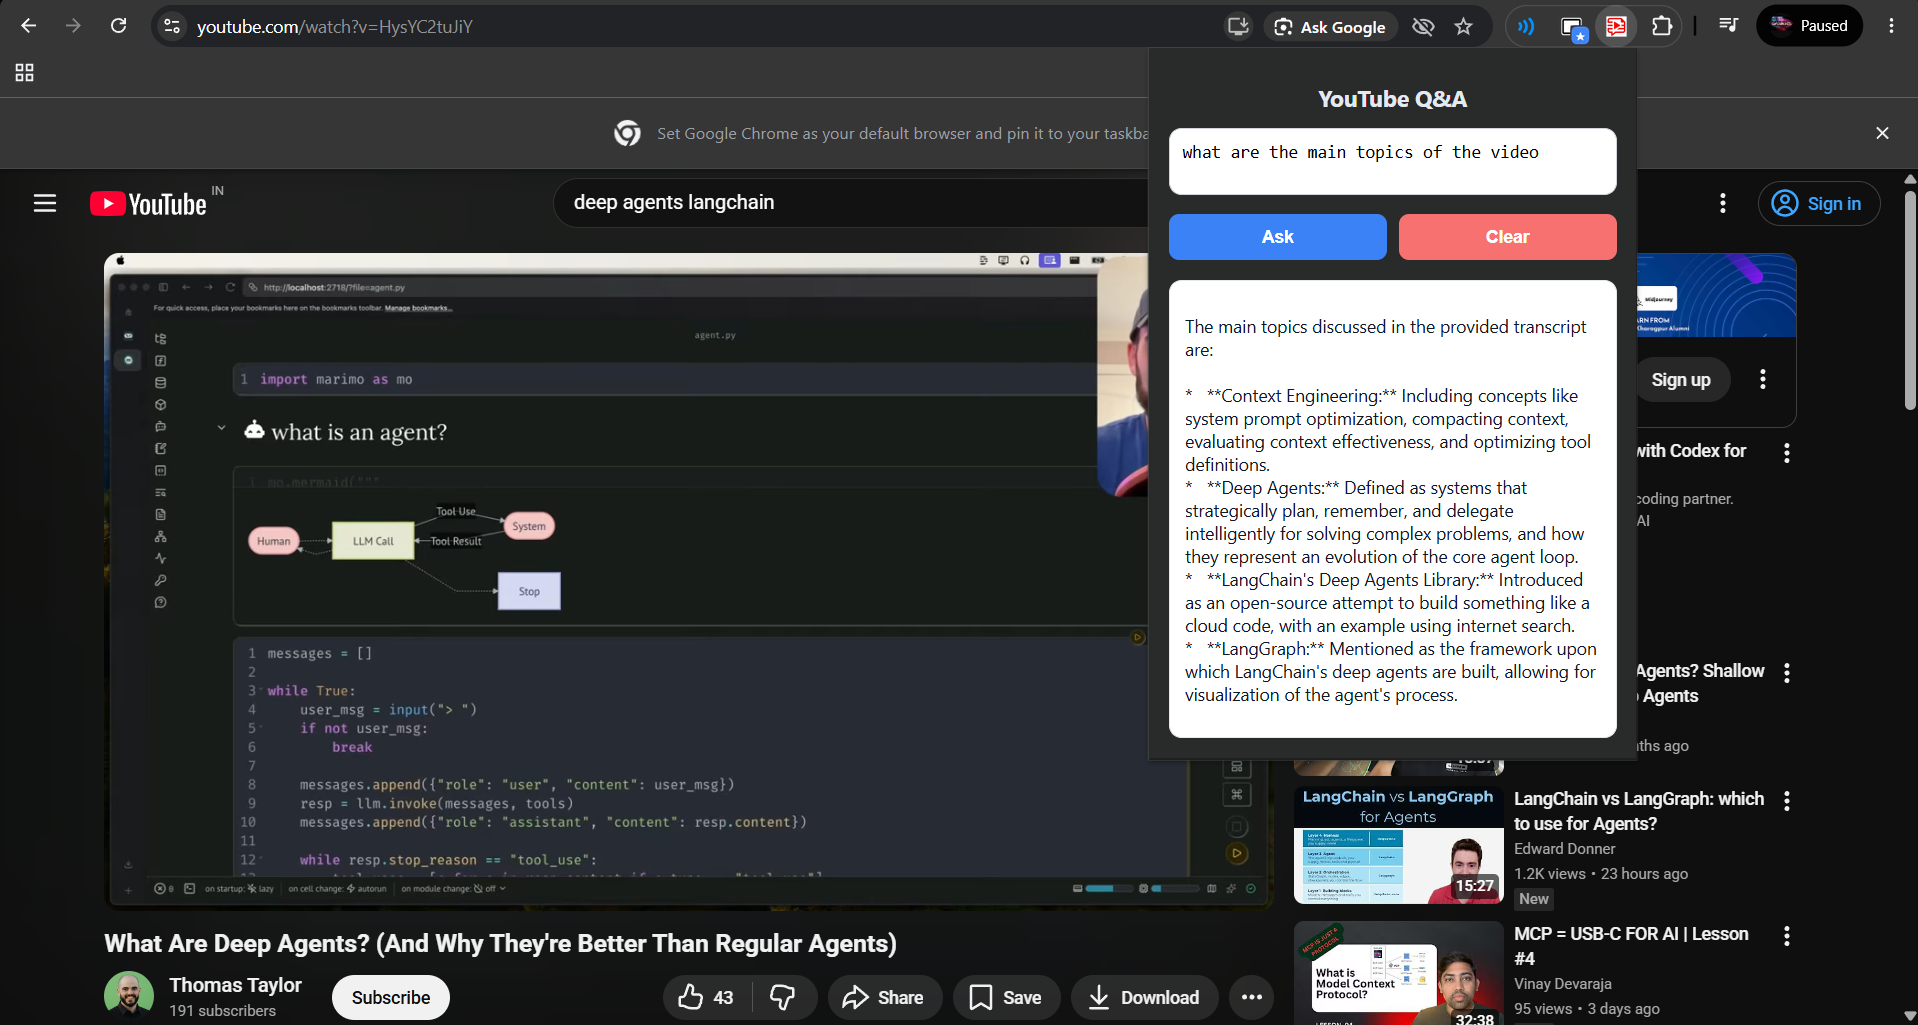
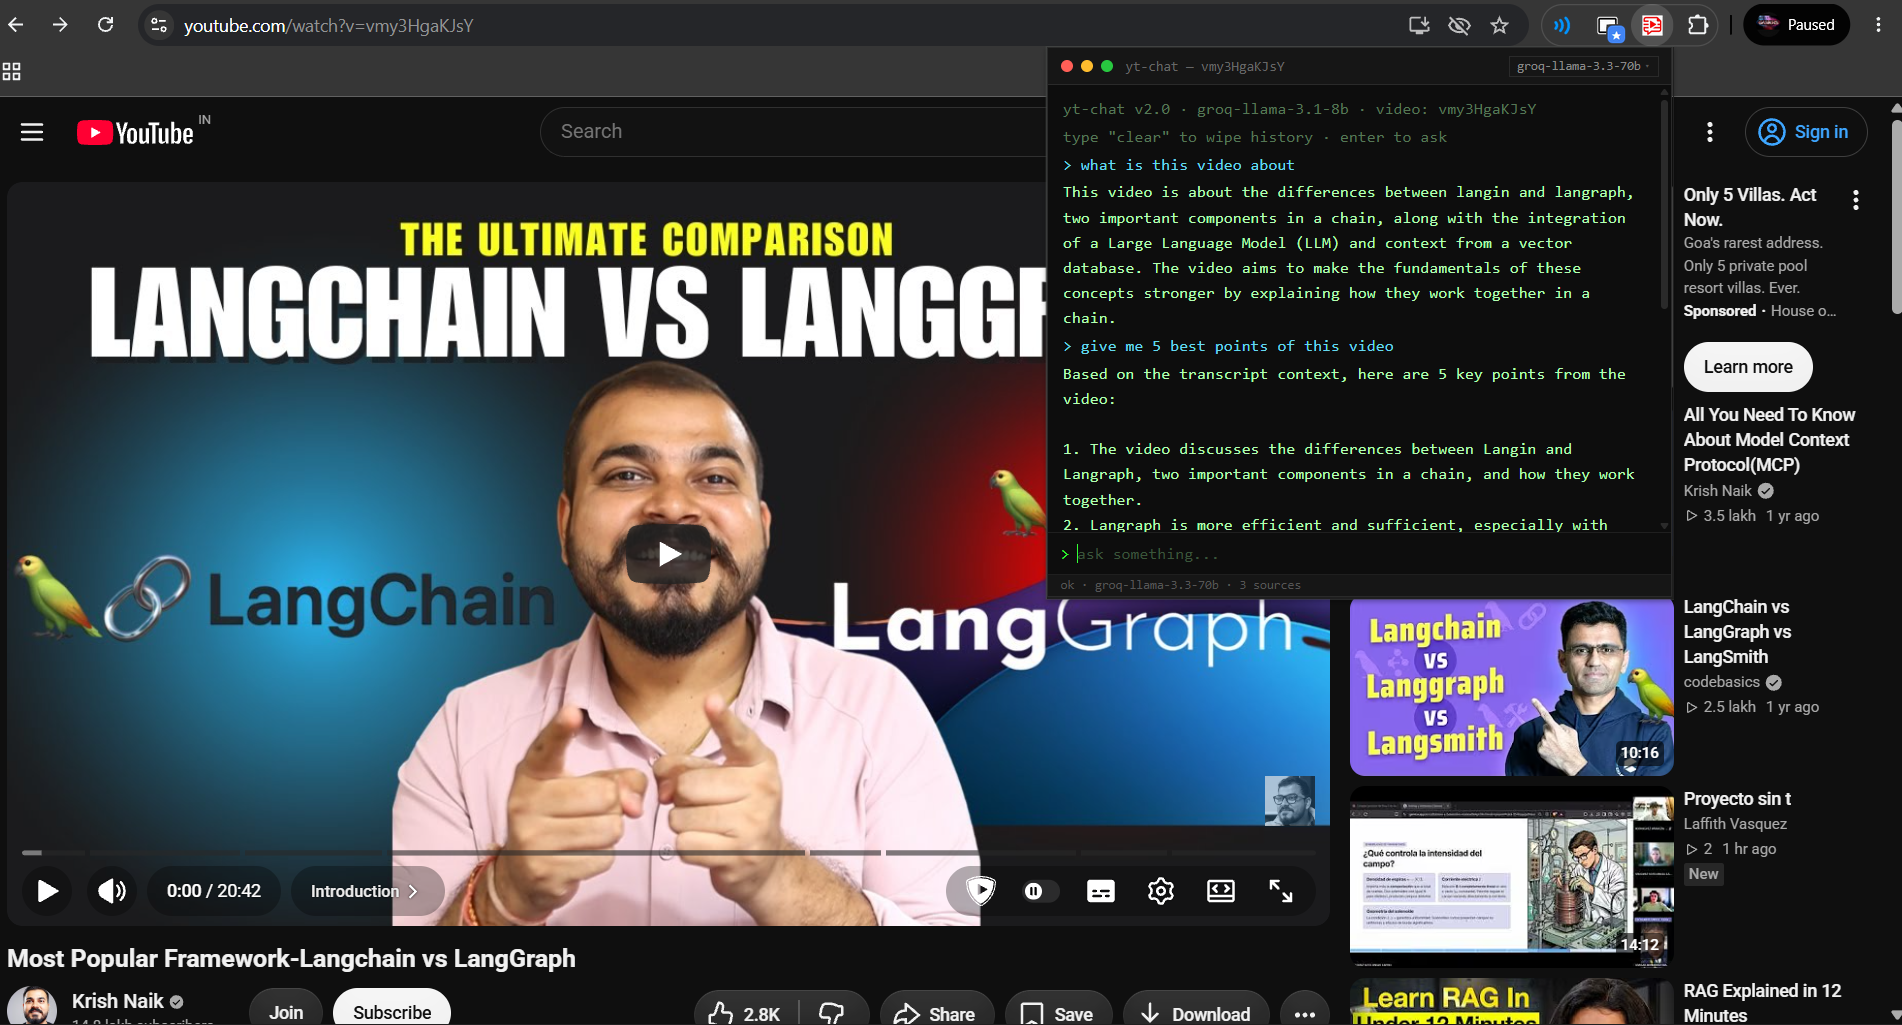
Add README.md for project overview, features, tech stack, and getting started instructions

diff --git a/README.md b/README.md
@@ -1,0 +1,55 @@
+# Arya Ojha — Portfolio
+
+Personal portfolio website for **Arya Ojha**, an AI Engineer based in India. Features an interactive p5.js falling sand simulation as the background with a sleek dark glassmorphism design.
+
+## 🚀 Features
+
+- **Interactive Sand Simulation** — p5.js-powered falling sand particles that respond to mouse movement with cycling hues
+- **Glassmorphism UI** — frosted glass effects with backdrop blur throughout the page
+- **GSAP Animations** — smooth entrance animations on hero text and elements
+- **Click Splatter Effect** — particles burst from click points
+- **Project Showcase** — hover-to-reveal project previews (Pragyasetu, YT_Chat, Bithub)
+- **Slide-in Menu** — minimal sidebar navigation with smooth scroll-to-section
+- **Fully Responsive** — adapts from desktop to mobile with tailored breakpoints
+
+## 🛠 Tech Stack
+
+| Layer | Technology |
+|-------|------------|
+| Canvas / Background | [p5.js](https://p5js.org/) 1.9 |
+| Animations | [GSAP](https://greensock.com/gsap/) 3.12 + ScrollTrigger |
+| Icons | [Remix Icon](https://remixicon.com/) 3.2 |
+| Fonts | Poppins (Google Fonts) |
+| Styling | Vanilla CSS (custom properties, glassmorphism, responsive) |
+
+## 📁 Project Structure
+
+```
+├── index.html          # Main HTML structure
+├── style.css           # All styles (glass effects, responsive, animations)
+├── script.js           # p5.js sand sim, GSAP animations, menu, splatter
+├── assets/             # Project images and SVG icons
+├── dp.jpg              # Profile photo
+└── README.md
+```
+
+## 🖥 Getting Started
+
+Just open `index.html` in any modern browser — no build step required.
+
+```
+# Or serve locally
+npx serve .
+```
+
+## ✨ Sand Simulation
+
+The background sand is a custom optimized simulation:
+- **1D Float32Array grids** for performance
+- **30 fps** frame rate
+- Grains spawn under the cursor and pile up naturally at the bottom
+- Configurable via `hueValue`, `gravity`, and `fill()` saturation/brightness in `script.js`
+
+## 📄 License
+
+MIT — feel free to use and adapt.
